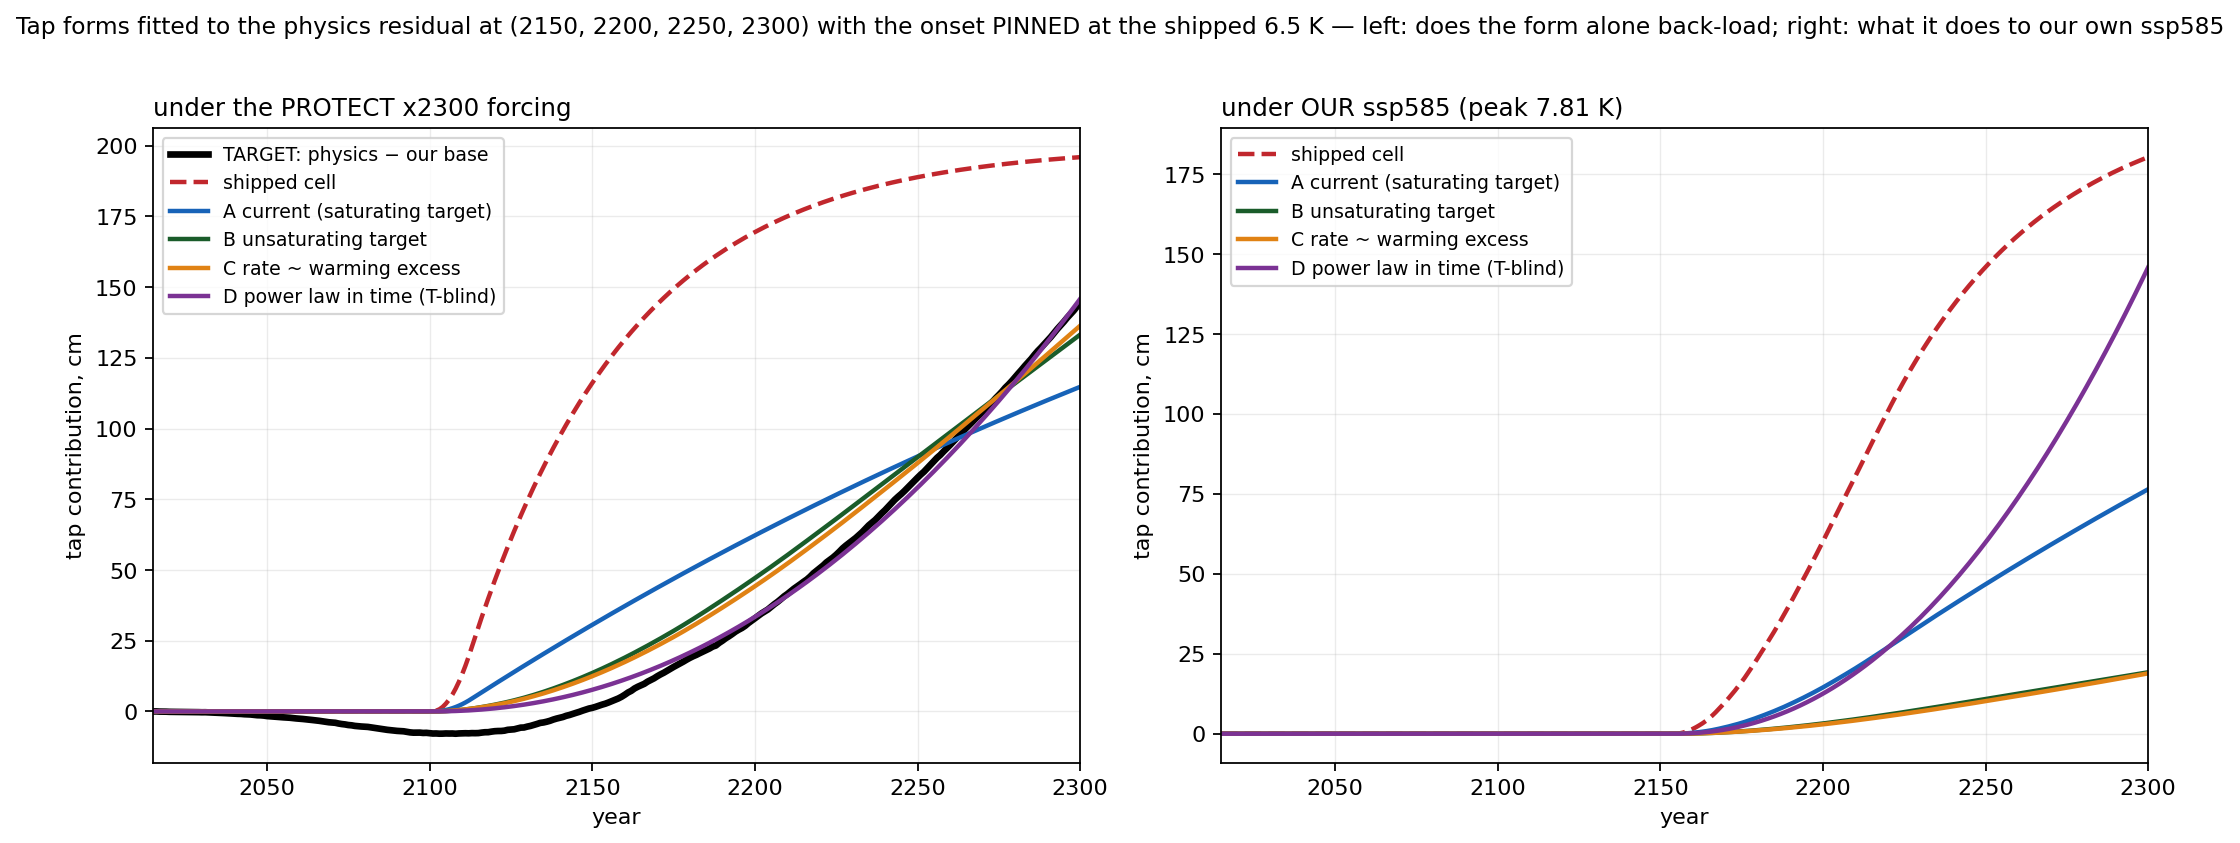
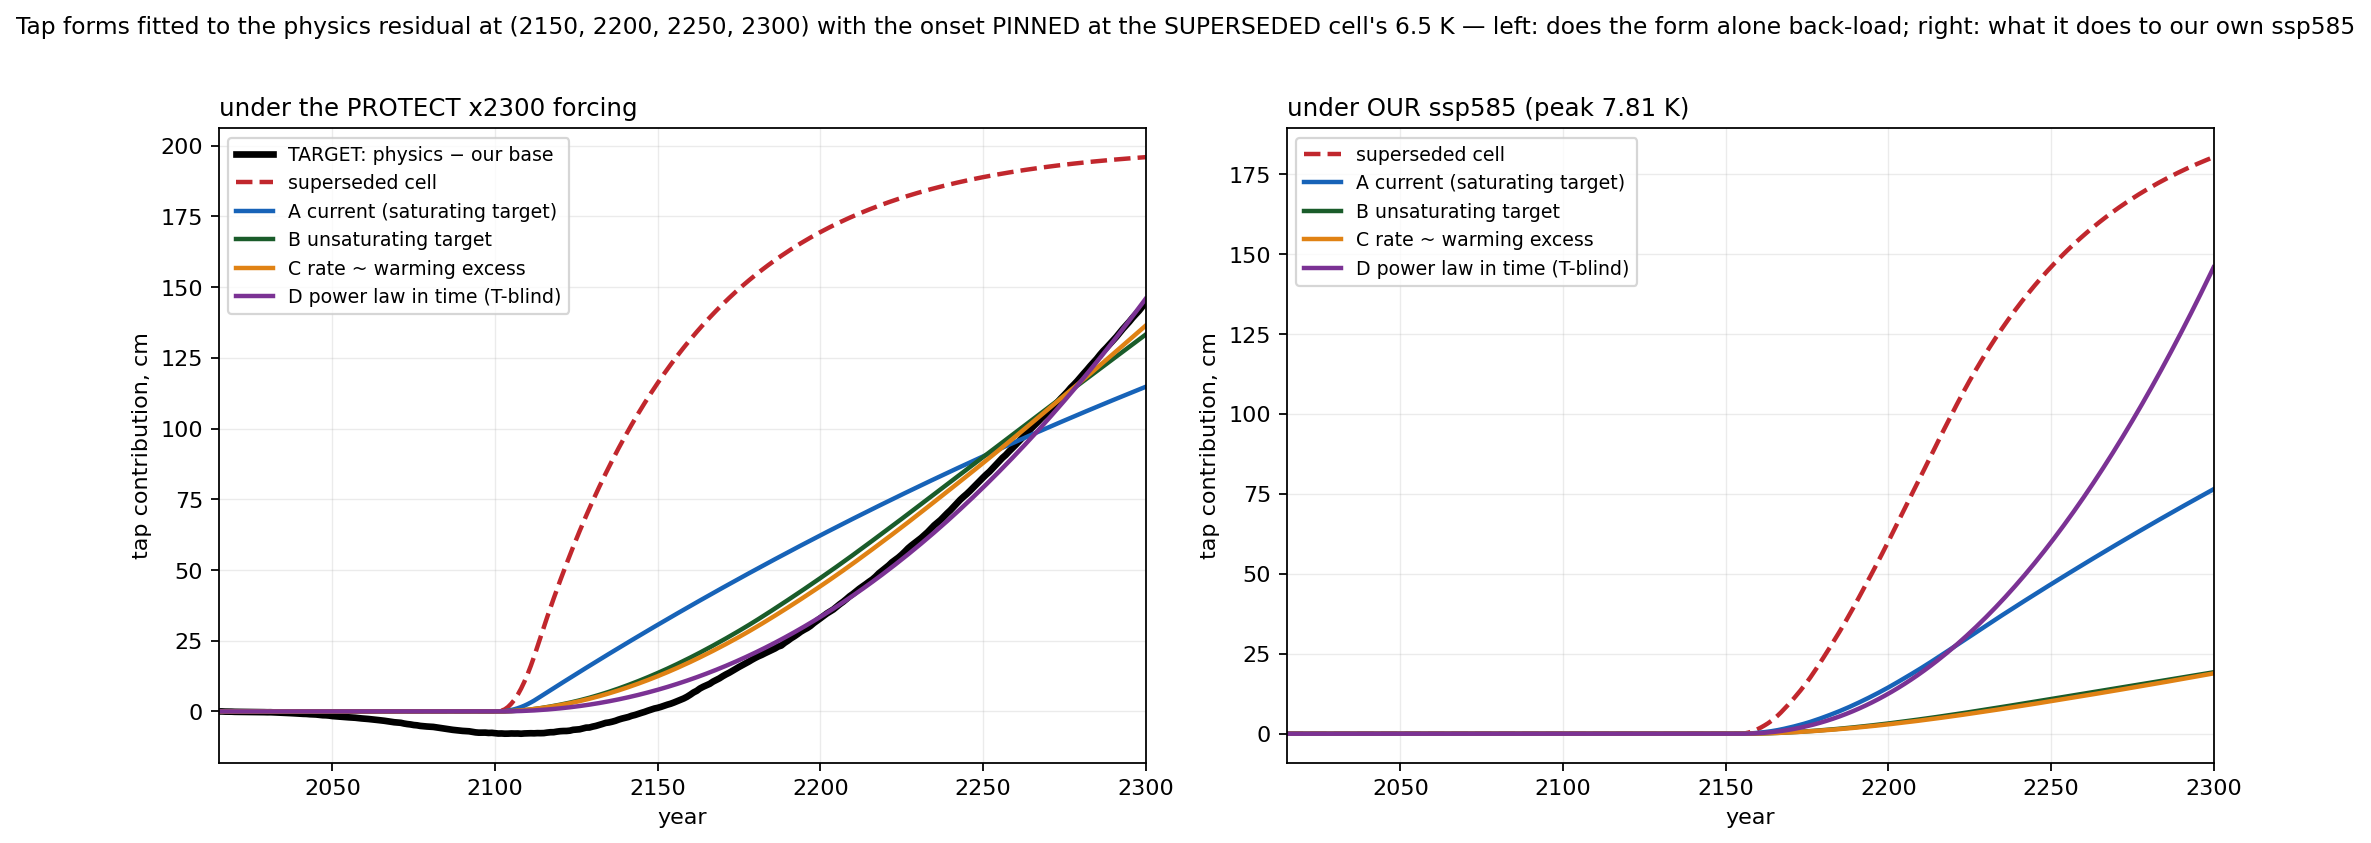
Stop scope_gis_tap_shape.py calling the superseded cell "shipped", and read its comparison from disk
Two separate stale-label bugs in one file, both of the class the standing rule exists
to prevent.

1. `50.0` and `230.3` were HARDCODED as the untapped and shipped Greenland@2300. The
   cell moved on 2026-08-23 and a literal cannot follow it, so the file was silently
   reporting the shipped tap as 2.3x the interpolated physics central and 2.1x the
   r2300 p95. Both now READ from the deliverables via a single SHIPPED_TAP_TAG, and
   the true figures are 1.0x and 0.9x. Missing file = a loud error naming the cause,
   not a fallback.

2. ONSET_SHIPPED / V_SHIPPED / TAU_SHIPPED (6.5 K / 2.0 m / 50 yr) are this
   diagnostic's ANCHOR, and rewiring them to the cascade would ask a different
   question -- its "pinned" arm pins the onset at 6.5 K deliberately. So the cell
   stays and the NAME changes to *_SUPERSEDED, because every label in the printout
   and the figure legend derived from it and was claiming the superseded cell is what
   we ship.

The reference line's tap@2150 / tap@2300 are now computed from those constants
instead of hardcoded, and they reproduce the old literals exactly (116.1, 195.9) --
which is the check that the de-hardcoding is faithful.

outputs/scope_gis_tap_shape.csv re-ran unchanged; only the figure's legend moved.

diff --git a/python/scope_gis_tap_shape.py b/python/scope_gis_tap_shape.py
@@ -55,11 +55,41 @@ sys.path.insert(0, os.path.dirname(os.path.abspath(__file__)))
 
 REPO = os.path.dirname(os.path.dirname(os.path.abspath(__file__)))
 TAG = "L14"
+## THE COMPARISON NUMBERS ARE READ, NOT HARDCODED (2026-08-23). This file used to
+## carry `50.0` and `230.3` as literals for the untapped and shipped Greenland@2300.
+## The cell was replaced on 2026-08-23 -- 6.5 K / 2.0 m / 50 yr first-order became a
+## 2-stage cascade at 4.69 K / 6.0 m / 800 yr, whole-sheet -- and a literal cannot
+## follow that. SHIPPED_TAP_TAG is the ONE place the cell appears; if it stops
+## resolving, that is the signal the cell moved again, and the error says so.
+UNTAPPED_CSV = os.path.join(REPO, f"outputs/ssps_components_2300_{TAG}.csv")
+SHIPPED_TAP_TAG = "tap4p69K_V6p0m_tau800_n2_ws"
+SHIPPED_TAP_CSV = os.path.join(
+    REPO, f"outputs/ssps_components_2300_{TAG}_{SHIPPED_TAP_TAG}.csv")
+
+
+def _gis2300(path, ssp="SSP5-8.5"):
+    if not os.path.isfile(path):
+        sys.exit(f"scope_gis_tap_shape: missing {os.path.relpath(path, REPO)}. If the "
+                 f"shipped tap cell moved, update SHIPPED_TAP_TAG -- do not re-add a "
+                 f"hardcoded cm figure here.")
+    d = pd.read_csv(path)
+    m = (d.year == 2300) & (d.ssp == ssp) & (d.component == "gis")
+    if m.sum() != 1:
+        sys.exit(f"scope_gis_tap_shape: {m.sum()} rows for gis/{ssp}/2300 in "
+                 f"{os.path.relpath(path, REPO)}, expected 1")
+    return float(d.med[m].iloc[0])
 ## Imported, not retyped — a shape scan run at a different ramp width than the
 ## priced grid used is a scan of a different tap. Asserted at import.
 from scope_gis_tap_l13 import TAP_RAMP_W_K as RAMP_W_K
 assert RAMP_W_K == 1.0, f"TAP_RAMP_W_K moved to {RAMP_W_K}; re-read this scan's conclusions"
-ONSET_SHIPPED, V_SHIPPED, TAU_SHIPPED = 6.5, 2.0, 50.0
+## THE ANCHOR CELL OF THIS DIAGNOSTIC IS THE ONE IT WAS WRITTEN ABOUT, AND IT IS NO
+## LONGER THE SHIPPED ONE (renamed 2026-08-23). This file asks whether any tap FORM
+## can reproduce the x2300 trajectory, with the first-order 6.5 K / 2.0 m / 50 yr cell
+## as the incumbent to beat; its "pinned" arm pins the onset at 6.5 K deliberately.
+## Rewiring it to the cascade would ask a different question, so the cell stays and
+## the NAME changes -- keeping `_SHIPPED` would have made every label in the printout
+## and the figure claim the superseded cell is what we ship.
+ONSET_SUPERSEDED, V_SUPERSEDED, TAU_SUPERSEDED = 6.5, 2.0, 50.0
 FIT_YEARS = (2150, 2200, 2250, 2300)   # the horizons the physics actually constrains
 OUR_PEAK_K = 7.815                  # fair_mean_gmst_ssp585 max — the (ii) constraint
 
@@ -113,7 +143,7 @@ SPECS = {  # name: (label, x0, bounds)
 ##          back-loading by pushing the onset past 7.81 K, which is precisely the
 ##          failure already measured in the --scan arm: exactly inert on our own
 ##          scenario. A good `free` fit is therefore NOT evidence for a form.
-##   pinned the onset is held at the SHIPPED 6.5 K. This asks the question that
+##   pinned the onset is held at the SUPERSEDED cell's 6.5 K. This asks the question that
 ##          matters: can the FORM alone back-load, without moving the onset out of
 ##          our scenario's reach?
 rows = []
@@ -123,8 +153,8 @@ for k, (label, x0, bnds) in SPECS.items():
         b = list(bnds)
         xx = list(x0)
         if mode == "pinned":
-            b[1] = (ONSET_SHIPPED, ONSET_SHIPPED)
-            xx[1] = ONSET_SHIPPED
+            b[1] = (ONSET_SUPERSEDED, ONSET_SUPERSEDED)
+            xx[1] = ONSET_SUPERSEDED
         cost = lambda p: float(np.sum((form(k, p, T_prot)[fit_i] - resid[fit_i]) ** 2))
         r = minimize(cost, xx, bounds=b, method="L-BFGS-B")
         p = r.x
@@ -148,27 +178,30 @@ print(f"  residual at 2100 {resid[np.where(yrs==2100)[0][0]]:+.1f} cm "
 print(f"  residual at 2150 {resid[fit_i[0]]:+.1f}, at 2300 {resid[-1]:+.1f} cm\n")
 for mode in ("free", "pinned"):
     print(f"--- onset {mode.upper()}" +
-          (f" at the shipped {ONSET_SHIPPED} K" if mode == "pinned" else " (free parameter)"))
+          (f" at the SUPERSEDED cell's {ONSET_SUPERSEDED} K" if mode == "pinned" else " (free parameter)"))
     print(f"{'form':36} {'rmse':>6} {'tap@2150':>9} {'tap@2300':>9} {'onset':>6} "
           f"{'fires?':>7} {'ours tap@2300':>13}")
     for r in out[out["mode"] == mode].itertuples():
         print(f"{r.label:36} {r.rmse_cm:6.1f} {r.tap2150:9.1f} {r.tap2300:9.1f} "
               f"{r.onset_K:6.2f} {str(r.fires_on_ours):>7} {r.ours_tap2300:13.1f}")
     print()
-print(f"\nshipped cell for reference: tap@2150 116.1, tap@2300 195.9 cm "
+_sup = CM * V_SUPERSEDED * relax(T_prot, ONSET_SUPERSEDED, TAU_SUPERSEDED, True)
+print(f"\nSUPERSEDED cell for reference (onset {ONSET_SUPERSEDED} K / V "
+      f"{V_SUPERSEDED} m / tau {TAU_SUPERSEDED:.0f} yr, first-order): "
+      f"tap@2150 {_sup[fit_i[0]]:.1f}, tap@2300 {_sup[-1]:.1f} cm "
       f"(target {resid[fit_i[0]]:.1f} and {resid[-1]:.1f})")
 
 # ---- figure ----------------------------------------------------------------
 fig, ax = plt.subplots(1, 2, figsize=(13.5, 5.2))
-ship = CM * V_SHIPPED * relax(T_prot, ONSET_SHIPPED, TAU_SHIPPED, True)
+ship = _sup
 for a, (v_idx, T, lab) in enumerate([(2, T_prot, "under the PROTECT x2300 forcing"),
                                      (3, T_ours, "under OUR ssp585 (peak 7.81 K)")]):
     if a == 0:
         ax[a].plot(yrs, resid, "k", lw=3, label="TARGET: physics − our base")
-        ax[a].plot(yrs, ship, color="#c1272d", lw=2, ls="--", label="shipped cell")
+        ax[a].plot(yrs, ship, color="#c1272d", lw=2, ls="--", label="superseded cell")
     else:
-        ax[a].plot(yrs, CM * V_SHIPPED * relax(T_ours, ONSET_SHIPPED, TAU_SHIPPED, True),
-                   color="#c1272d", lw=2, ls="--", label="shipped cell")
+        ax[a].plot(yrs, CM * V_SUPERSEDED * relax(T_ours, ONSET_SUPERSEDED, TAU_SUPERSEDED, True),
+                   color="#c1272d", lw=2, ls="--", label="superseded cell")
     for k, c in zip("ABCD", ("#1763b8", "#1a5c2a", "#e08214", "#7b3294")):
         ax[a].plot(yrs, curves[(k, "pinned")][v_idx], color=c, lw=2,
                    label=curves[(k, "pinned")][0])
@@ -177,7 +210,7 @@ for a, (v_idx, T, lab) in enumerate([(2, T_prot, "under the PROTECT x2300 forcin
     ax[a].grid(alpha=.25, lw=.6); ax[a].legend(fontsize=8.5, loc="upper left")
     ax[a].set_xlim(2015, 2300)
 fig.suptitle("Tap forms fitted to the physics residual at "
-             f"{FIT_YEARS} with the onset PINNED at the shipped {ONSET_SHIPPED} K — "
+             f"{FIT_YEARS} with the onset PINNED at the SUPERSEDED cell's {ONSET_SUPERSEDED} K — "
              "left: does the form alone back-load; right: what it does to our own ssp585",
              fontsize=10.5, y=1.01)
 fig.tight_layout()
@@ -217,8 +250,10 @@ print(f"    Greenland@2300  p05 {R.loc[2300,0.05]:5.1f}  p50 {R.loc[2300,0.5]:5.
 print(f"  x2300, ~{T_X:.2f} K, n=18 / 2 GCMs: p50 {X.loc[2300,0.5]:.1f} cm")
 print(f"  crude two-point interpolation to our {T_us:.2f} K  ->  ~{round(mid,-1):.0f} cm "
       f"(bracket ~{round(R.loc[2300,0.5],-1):.0f}-{round(X.loc[2300,0.5],-1):.0f})")
-print(f"  ours UNTAPPED@2300  50.0 cm   |   ours SHIPPED CELL@2300  230.3 cm")
-print(f"  => untapped is LOW, the shipped tap is ~{230.3/mid:.1f}x the interpolated central "
-      f"and {230.3/R.loc[2300,0.95]:.1f}x the r2300 p95")
+g_off, g_on = _gis2300(UNTAPPED_CSV), _gis2300(SHIPPED_TAP_CSV)
+print(f"  ours UNTAPPED@2300 {g_off:6.1f} cm   |   ours SHIPPED CELL@2300 {g_on:6.1f} cm "
+      f"({SHIPPED_TAP_TAG})")
+print(f"  => untapped is LOW, the shipped tap is ~{g_on/mid:.1f}x the interpolated central "
+      f"and {g_on/R.loc[2300,0.95]:.1f}x the r2300 p95")
 
 print("\nwrote outputs/scope_gis_tap_shape.csv, figures/gis_tap_shape_candidates.png")
